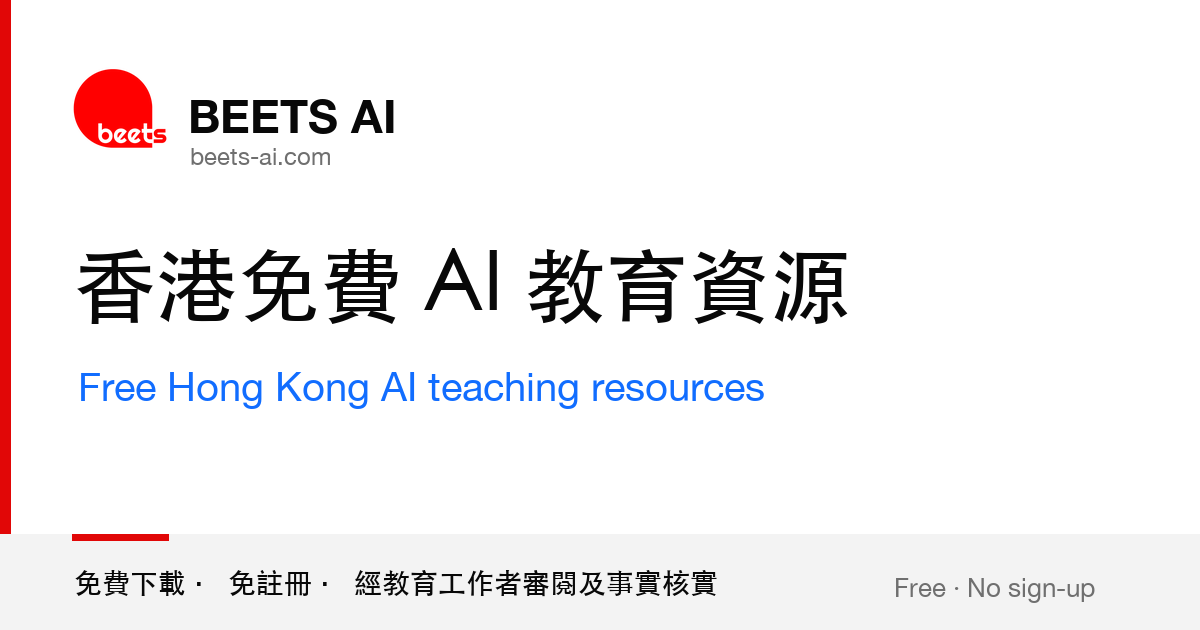
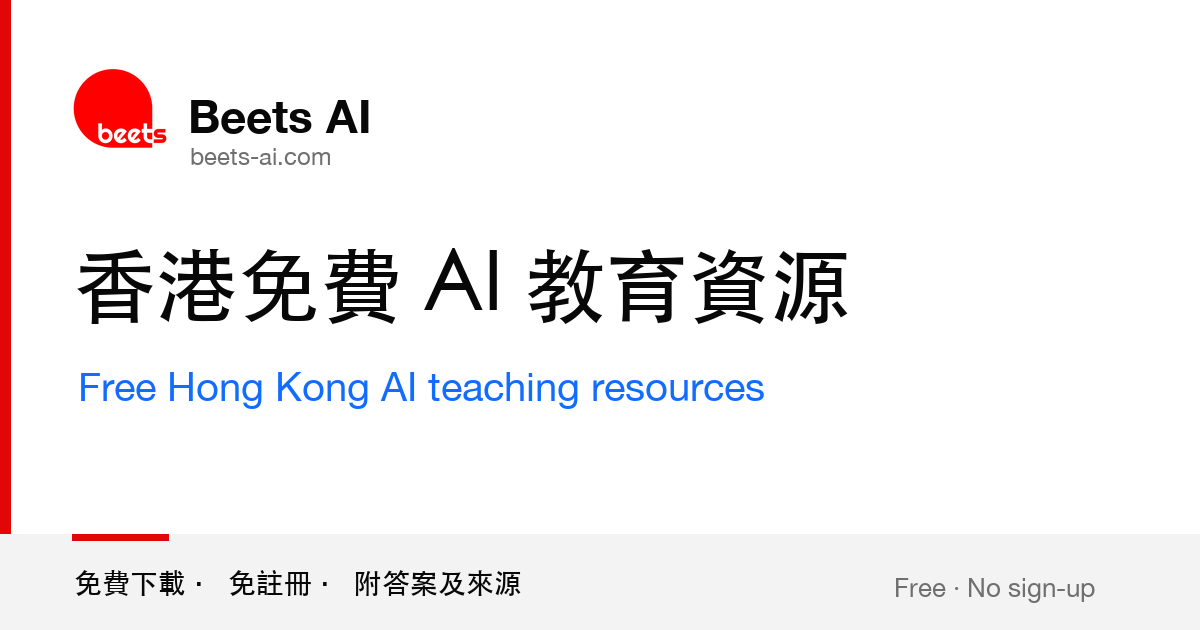
style(brand): the name is "Beets AI", not "BEETS AI"
Billy, 2026-10-11. 67 occurrences in 41 files — the pages, the copy, the
generators and the skill docs — plus four places a text sweep could not reach on
its own:

- the header wordmark, which is "BEETS" + "AI" in two spans and so never read as
  a single "BEETS AI" string;
- the Open Graph social card: PIL draws it in scripts/gen-og-image.py, so the
  IMAGE is regenerated. Its footer also carried "經教育工作者審閱及事實核實" —
  the same review-process claim taken off the pages — replaced with
  "免費下載 · 免註冊 · 附答案及來源";
- README.md and package.json's description;
- robots.txt, and llms.txt / llms-full.txt through the generator's HEADER, so a
  rebuild cannot put the old casing back.

Verified in dist/: zero "BEETS" left anywhere, 404 "Beets AI", the wordmark reads
"Beets AI", and every page title carries the new casing. The logo artwork itself
(public/beets-logo.png) already reads lowercase "beets".

Changed region(s): [[0.2775, 0.9048, 0.6167, 0.9651], [0.185, 0.1508, 0.3392, 0.2111]]

diff --git a/src/lib/i18n.ts b/src/lib/i18n.ts
@@ -76,15 +76,15 @@ const ZH_HK = {
   footerDisclaimer: "獨立資源計劃，並非 EDB 官方文件。資源免費下載，不需註冊。",
   footerTerms: "使用條款及私隱",
   footerFeedback: "意見及建議",
-  aboutTitle: "關於 BEETS AI",
+  aboutTitle: "關於 Beets AI",
   aboutDescription:
-    "BEETS AI 是 Beets Limited 為香港教師、家長和學生設立的免費 AI 教育資源庫：教案、工作紙及校本規劃範例，每份列明所依據的官方文件，免費下載、不需註冊。",
+    "Beets AI 是 Beets Limited 為香港教師、家長和學生設立的免費 AI 教育資源庫：教案、工作紙及校本規劃範例，每份列明所依據的官方文件，免費下載、不需註冊。",
 
   homeTitle: "香港免費 AI 教育資源",
   homeDescription:
     "香港免費 AI 教育資源：教師、家長及學生都可下載工作紙、教案及校本規劃範例，附答案及來源，全部免費。",
   homeLede:
-    "BEETS AI 是 Beets Limited 為香港教師、家長和學生設立的免費 AI 教育資源庫。我們相信學好 AI 不應該取決於學校有多少預算，或者家長懂不懂技術，所以我們把教師真正需要的教案、工作紙和校本規劃範例，做成下載即可使用的教材——全部免費，下載不需註冊。",
+    "Beets AI 是 Beets Limited 為香港教師、家長和學生設立的免費 AI 教育資源庫。我們相信學好 AI 不應該取決於學校有多少預算，或者家長懂不懂技術，所以我們把教師真正需要的教案、工作紙和校本規劃範例，做成下載即可使用的教材——全部免費，下載不需註冊。",
   homeIntro2:
     "無論你是明天要上第一堂 AI 課的教師、想知道子女該怎樣用 AI 做功課的家長，還是要找資料做專題的學生，都可以按科目、級別或你面對的難題，找到今天就能用的資源。每份資源都列明所依據的官方文件與版本，並說明它為你解決什麼問題。",
   homeEyebrow: "教師、家長、學生都合用 · 下載不需註冊",
@@ -173,15 +173,15 @@ const EN: Record<UIKey, string> = {
     "An independent resource initiative — not an official EDB publication. Free to download, no registration.",
   footerTerms: "Reuse and privacy",
   footerFeedback: "Feedback and requests",
-  aboutTitle: "About BEETS AI",
+  aboutTitle: "About Beets AI",
   aboutDescription:
-    "BEETS AI is a free library of Hong Kong AI teaching resources for teachers, parents and students — lesson plans, worksheets and school-planning examples, each naming the official document it draws on.",
+    "Beets AI is a free library of Hong Kong AI teaching resources for teachers, parents and students — lesson plans, worksheets and school-planning examples, each naming the official document it draws on.",
 
   homeTitle: "Free AI education resources for Hong Kong",
   homeDescription:
     "Free AI education resources for Hong Kong: teachers, parents and students can download worksheets, lesson plans and school-planning examples, with answer keys and sources.",
   homeLede:
-    "BEETS AI is a free library of AI education resources that Beets Limited builds for Hong Kong teachers, parents and students. We believe learning to use AI well should not depend on how much a school can budget for it, or on how much a parent knows about technology — so we turn the lesson plans, worksheets and planning examples teachers actually ask for into materials you can download and use straight away. Everything is free, and nothing needs registration.",
+    "Beets AI is a free library of AI education resources that Beets Limited builds for Hong Kong teachers, parents and students. We believe learning to use AI well should not depend on how much a school can budget for it, or on how much a parent knows about technology — so we turn the lesson plans, worksheets and planning examples teachers actually ask for into materials you can download and use straight away. Everything is free, and nothing needs registration.",
   homeIntro2:
     "Whether you are a teacher running your first AI lesson tomorrow, a parent working out how your child should use AI for homework, or a student looking for material for a project, you can search by subject, learning stage or the difficulty you are facing — and find something you can use today. Every resource names the official document it draws on and its version, and says what problem it solves.",
   homeEyebrow: "For teachers, parents and students · no registration to download",

diff --git a/src/lib/audience-pages.ts b/src/lib/audience-pages.ts
@@ -73,7 +73,7 @@ const ZH_TEACHERS: AudiencePageCopy = {
     {
       question: "可以直接改編成自己學校的版本嗎？",
       answer:
-        "可以。資源供教學使用及改編，請保留來源標示，寫明材料來自 BEETS AI（Beets Limited）。改編後的版本不需要交回給我們，但如果你願意告訴我們改了什麼，會幫我們把下一份做得更合用。",
+        "可以。資源供教學使用及改編，請保留來源標示，寫明材料來自 Beets AI（Beets Limited）。改編後的版本不需要交回給我們，但如果你願意告訴我們改了什麼，會幫我們把下一份做得更合用。",
     },
   ],
 };
@@ -109,7 +109,7 @@ const EN_TEACHERS: AudiencePageCopy = {
     {
       question: "May I adapt a resource for my own school?",
       answer:
-        "Yes. Download and adapt these resources freely for teaching; please keep the attribution to BEETS AI (Beets Limited). You do not need to send your version back to us, but telling us what you changed helps us make the next one more useful.",
+        "Yes. Download and adapt these resources freely for teaching; please keep the attribution to Beets AI (Beets Limited). You do not need to send your version back to us, but telling us what you changed helps us make the next one more useful.",
     },
   ],
 };

diff --git a/src/lib/seo.ts b/src/lib/seo.ts
@@ -65,8 +65,8 @@ export const HERO_IMAGE_HEIGHT = 720;
 const OG_LOCALE: Record<Locale, string> = { "zh-HK": "zh_HK", en: "en_HK" };
 
 const SITE_NAME: Record<Locale, string> = {
-  "zh-HK": "BEETS AI — 香港免費 AI 教育資源",
-  en: "BEETS AI — Free Hong Kong AI Teaching Resources",
+  "zh-HK": "Beets AI — 香港免費 AI 教育資源",
+  en: "Beets AI — Free Hong Kong AI Teaching Resources",
 };
 
 /** Open Graph + Twitter Card values for one page. */
@@ -126,7 +126,7 @@ export function organizationLd() {
     url: ORG_URL,
     logo: ORG_LOGO,
     description:
-      "Hong Kong STEM, AI and 3D-printing education company. Publishes BEETS AI, a free library of Hong Kong AI teaching resources.",
+      "Hong Kong STEM, AI and 3D-printing education company. Publishes Beets AI, a free library of Hong Kong AI teaching resources.",
     areaServed: { "@type": "Place", name: "Hong Kong" },
     knowsLanguage: ["zh-HK", "en"],
     sameAs: [ORG_URL],

diff --git a/tests/content-i18n.test.ts b/tests/content-i18n.test.ts
@@ -255,13 +255,13 @@ describe("English attachments", () => {
   it("carries none of the internal record", () => {
     // The printables shipped an internal status note ("this file is a draft and
     // must be reviewed by an educator") and the resource's idea number.
-    // "BEETS AI · an independent teaching resource…" is legitimate boilerplate;
+    // "Beets AI · an independent teaching resource…" is legitimate boilerplate;
     // what must never survive is the meta line, which carries "· Theme C · #3".
     const internal = [
       /VERIFY/,
       /reviewed by an educator/i,
       /This (page|file) is a draft/i,
-      /BEETS AI · Theme/,
+      /Beets AI · Theme/,
     ];
     for (const name of files) {
       const text = textOf(EN_FILES, name);

diff --git a/src/lib/slug.ts b/src/lib/slug.ts
@@ -1,5 +1,5 @@
 /**
- * Stable, human-readable URL slugs for BEETS AI resources.
+ * Stable, human-readable URL slugs for Beets AI resources.
  *
  * Slugs are built from the ENGLISH title so URLs stay ASCII and shareable.
  * Chinese titles are preserved in the page content, not the address.

diff --git a/src/content.config.ts b/src/content.config.ts
@@ -14,7 +14,7 @@ if (!reviewRequired()) {
 }
 
 /**
- * BEETS AI content collection.
+ * Beets AI content collection.
  *
  * Resource pages and editorial posts share one frontmatter contract
  * (`resourceSchema`). Pagination of the full library happens through the

diff --git a/src/lib/schema.ts b/src/lib/schema.ts
@@ -97,7 +97,7 @@ const fields = {
 };
 
 /**
- * Frontmatter contract for BEETS AI content.
+ * Frontmatter contract for Beets AI content.
  *
  * `reviewRequired` selects whether the two human gates below are enforced:
  *

diff --git a/scripts/gen-og-image.py b/scripts/gen-og-image.py
@@ -39,7 +39,7 @@ def main() -> None:
     # Logo + wordmark
     logo = Image.open(LOGO).convert("RGBA").resize((96, 96), Image.LANCZOS)
     img.paste(logo, (72, 64), logo)
-    d.text((188, 88), "BEETS AI", font=font(LATIN, 46, index=1), fill=INK)
+    d.text((188, 88), "Beets AI", font=font(LATIN, 46, index=1), fill=INK)
     d.text((190, 142), "beets-ai.com", font=font(LATIN, 24), fill=MUTED)
 
     # Headline (Traditional Chinese) + English counterpart
@@ -56,7 +56,7 @@ def main() -> None:
     d.rectangle([72, H - 96, 72 + 96, H - 90], fill=RED)
     d.text(
         (74, H - 62),
-        "免費下載 · 免註冊 · 經教育工作者審閱及事實核實",
+        "免費下載 · 免註冊 · 附答案及來源",
         font=font(CJK, 28),
         fill=INK,
     )

diff --git a/README.md b/README.md
@@ -1,4 +1,4 @@
-# BEETS AI — beets-ai.com
+# Beets AI — beets-ai.com
 
 Free, educator-reviewed **Hong Kong AI teaching resources** — by subject, learning
 stage and specific classroom task. Each resource answers one recognisable teacher
